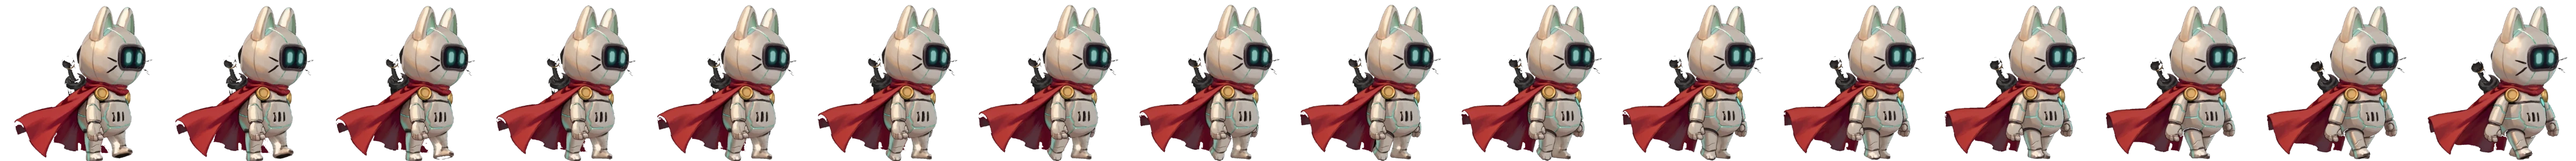
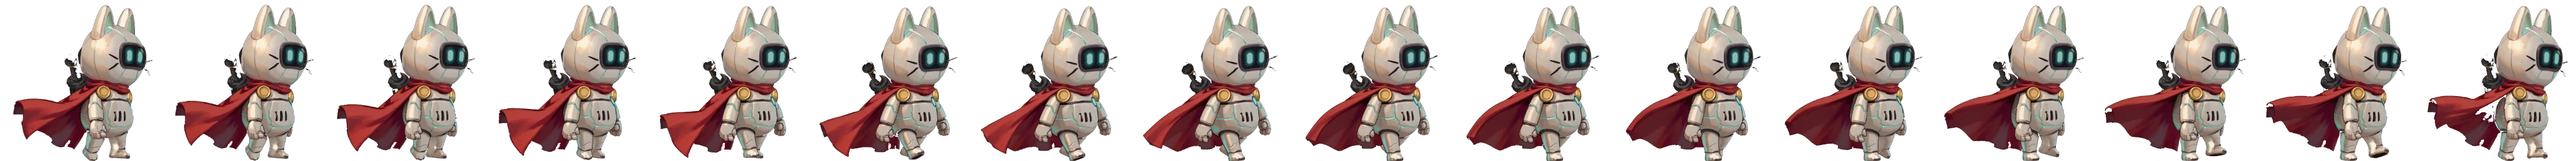
Her walk re-cut across one measured stride
The auto selector filled sixteen cells before a stride happened. The ankle
spread autocorrelates at 33 frames; the strip now samples 1.75–3.08 s of the
walk take evenly, left contact to left contact.

Claude-Session: https://claude.ai/code/session_011hKtSHdTMEFtEPt4TTsASV

diff --git a/docs/ART_QUEUE.md b/docs/ART_QUEUE.md
@@ -4740,6 +4740,13 @@ call (the code session's step-5 note above asked for a replacement — it is
 one rename away if that is the decision). `trans_air` likewise keeps its
 still-strip; `jump.webp` is the filmed alternative.
 
+**WALK RE-CUT (art session, 2026-09-05 21:50).** The stride was measured, not
+eyed: ankle-band spread per frame at 24 fps autocorrelates at lag 33 (1.375 s
+a stride; the cycle restarts at frames 42, 73, 106). `gait/walk.webp` is now
+16 cells sampled EVENLY over 1.75–3.08 s of `rig/takes/walk.mp4` — left
+contact to left contact, one stride. Same file name, so `HERO_GAIT.walk`
+takes its cell count and k from the sheet as before.
+
 **✔ WIRED (code session, 2026-09-05 21:20) — six of the eight, and the walk
 sent back.** Measured before wiring, strip by strip:
 
